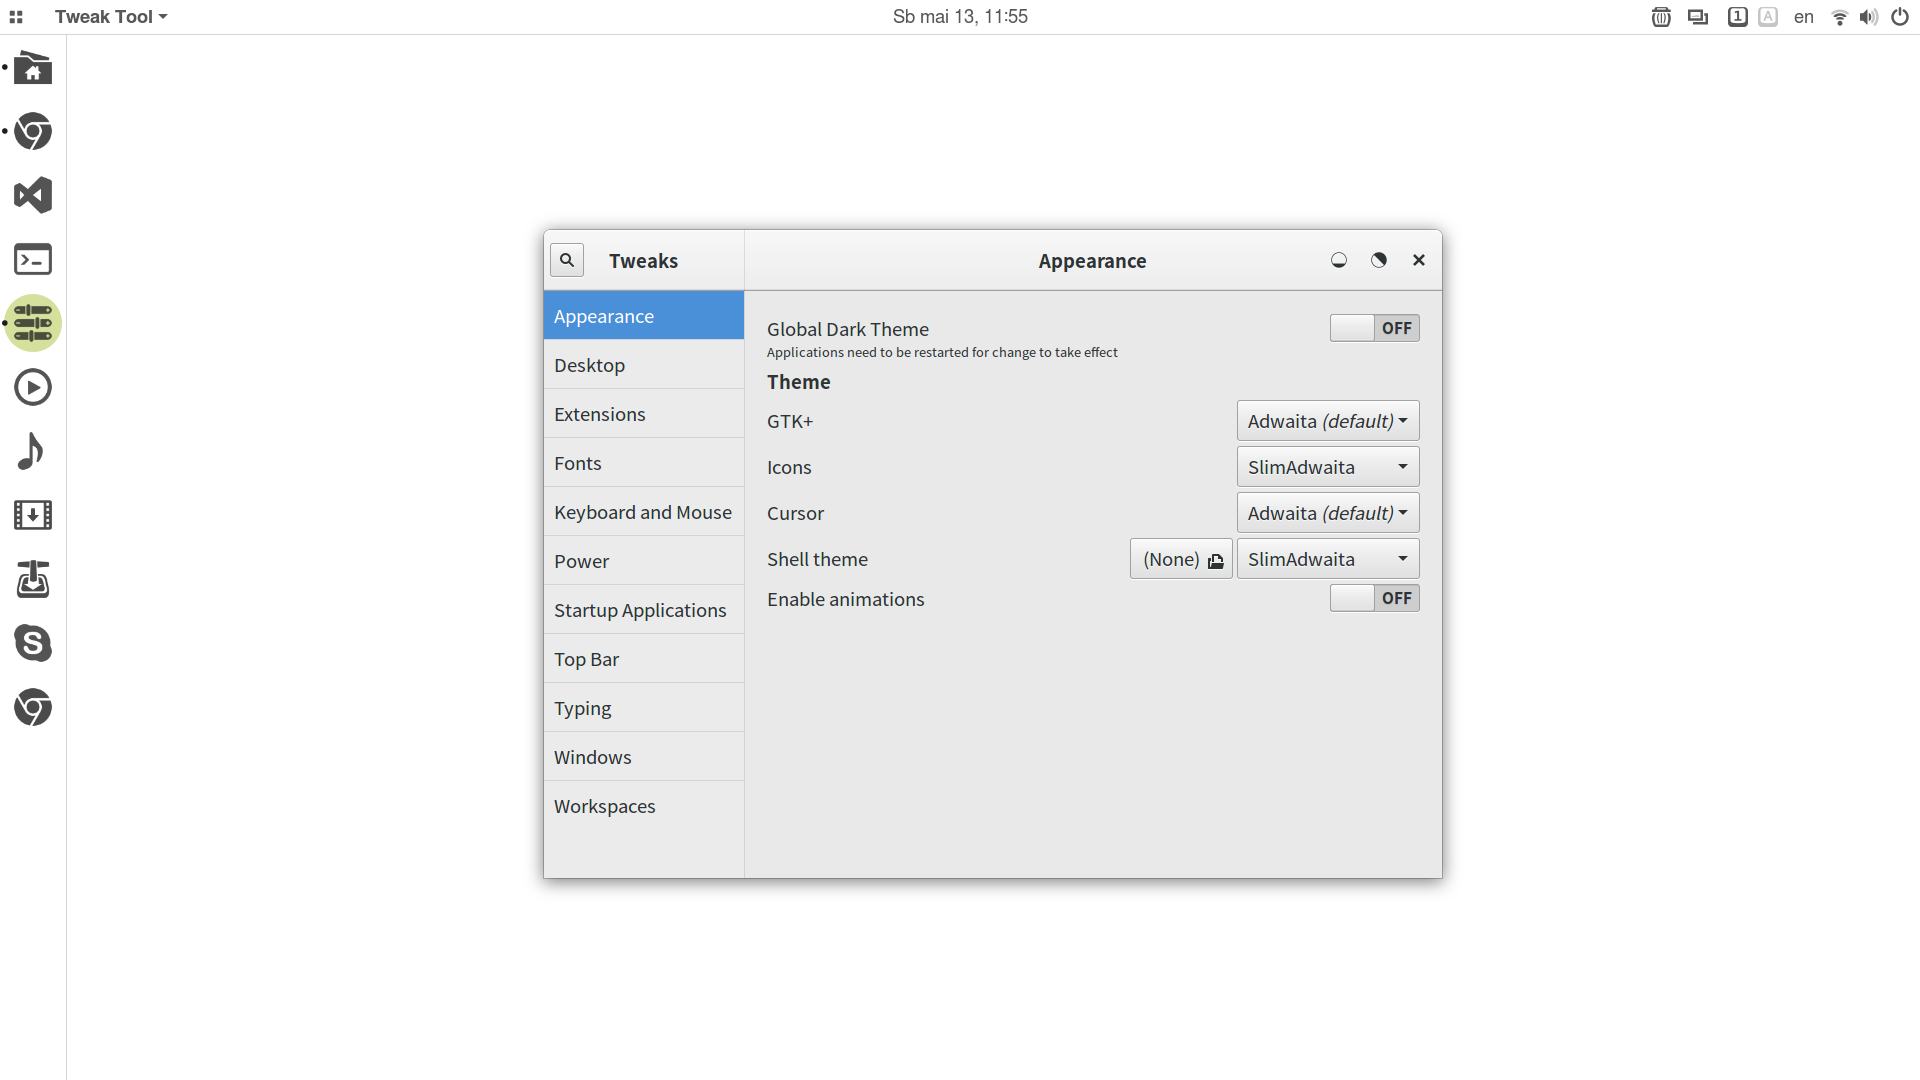
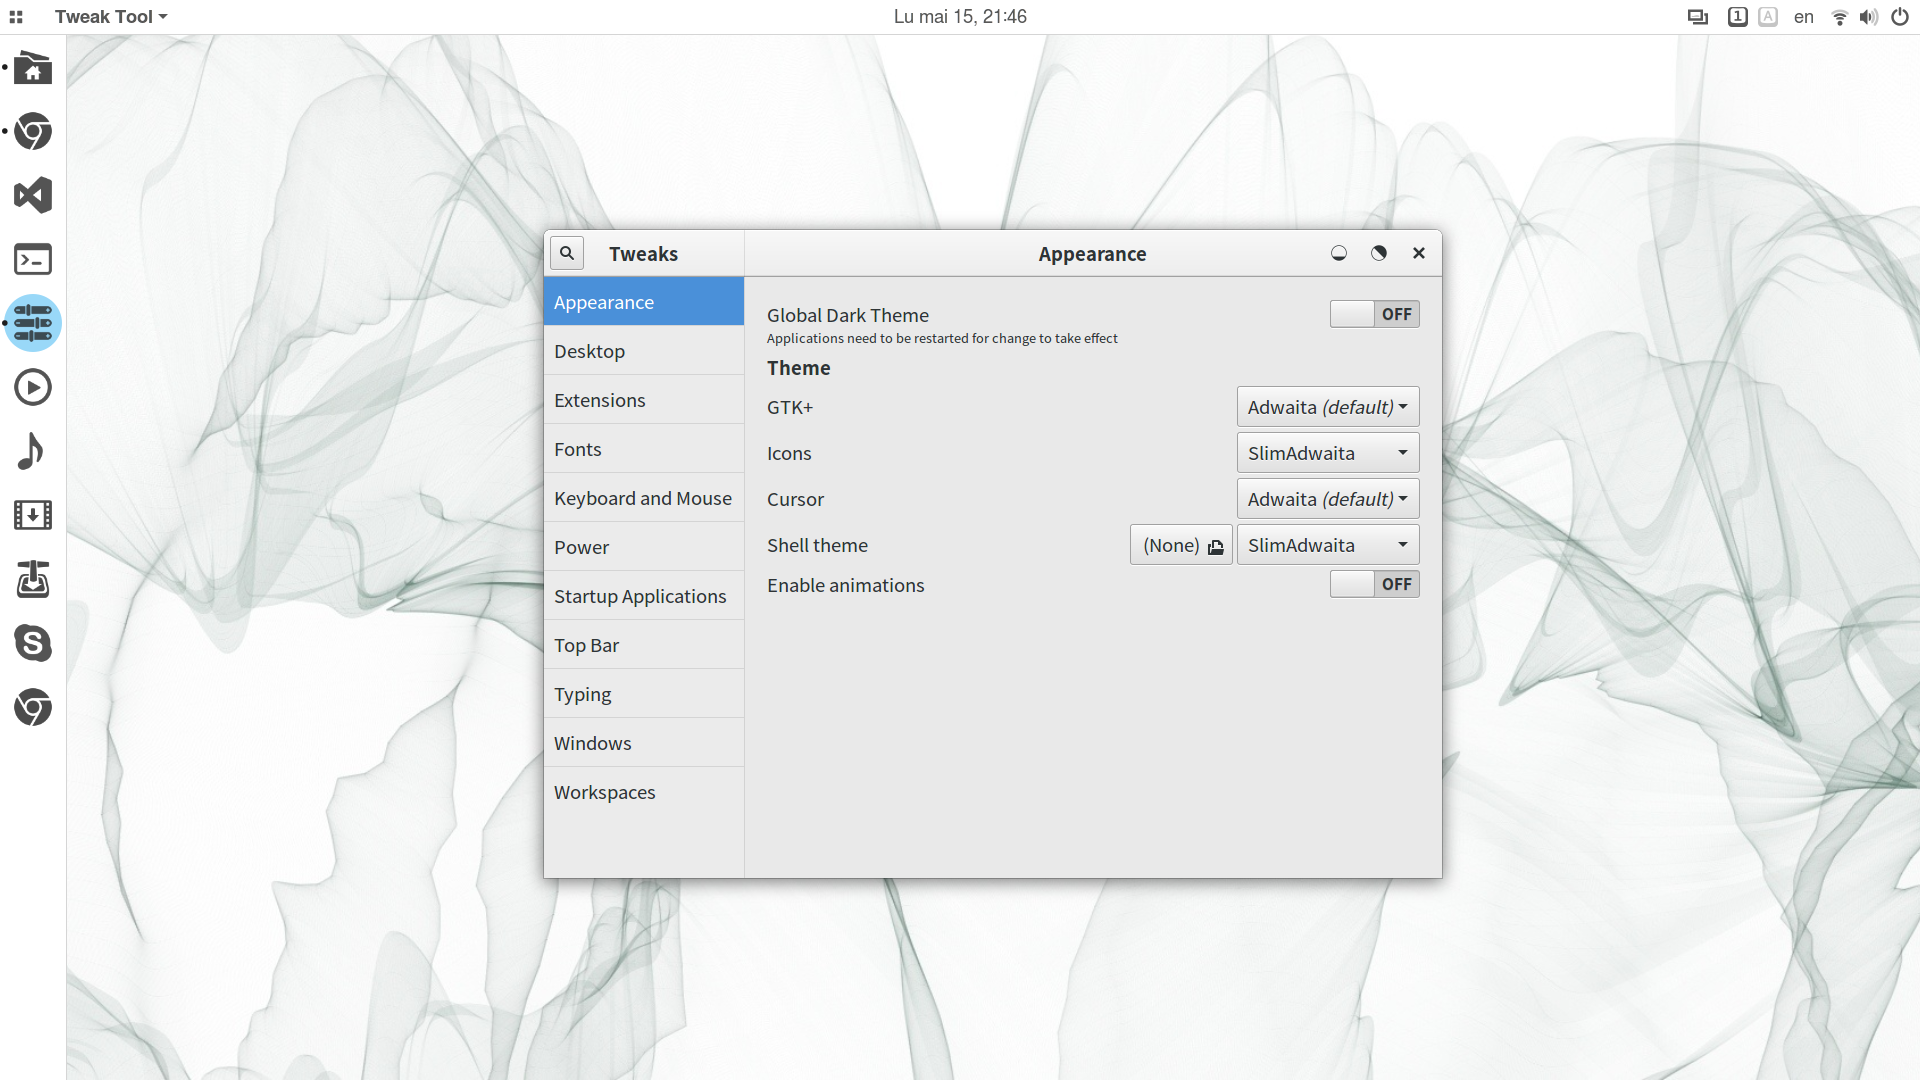
new walls

diff --git a/.local/share/gnome-shell/extensions/dash-to-dock@micxgx.gmail.com/stylesheet.css b/.local/share/gnome-shell/extensions/dash-to-dock@micxgx.gmail.com/stylesheet.css
@@ -103,7 +103,7 @@
     /*background-color: #A9DEF9;*/
     /*background-color: #57B8FF;*/
     /*background-color: #D4CDC3;*/
-    background-color: #D4E09B;
+    /*background-color: #D4E09B;*/
     /*background-color: #F5D547;*/
     /*background-color: #FFDB4A;*/
     /*background-color: #F5CB5C;*/
@@ -111,6 +111,8 @@
     /*background-color: #DBE064;*/
     /*background-color: #FCE279;*/
     /*background-color: #7CCAFB;*/
+    /*background-color: #a6caf0;*/
+    background-color: #99d8f8;
     /*background-color: pink;*/
     /*background-color:rgba(193,193,193,1);*/
     background-image:none;

diff --git a/.local/share/themes/slimAdwaita/gnome-shell/gnome-shell.css b/.local/share/themes/slimAdwaita/gnome-shell/gnome-shell.css
@@ -3047,4 +3047,5 @@ GtkScrolledWindow GtkViewport.frame {
 
 .window-frame {
   border-width: 4px;
-  margin: 10px; }
+  margin: 10px;
+}

diff --git a/README.md b/README.md
@@ -1,13 +1,11 @@
 # slimUG
 slightly modified Ubuntu Gnome
 
-sli(ghtly) m(odified) U(buntu) G(nome) is a personal project based on sli(ghtly) m(odified) Advaita theme and a modified White shell theme with the addition of original icons (which are developed based on most used apps), using dash-to-dock extension to create a clean and beautiful interface.
+sli(ghtly) m(odified) U(buntu) G(nome) is a personal project based on sli(ghtly) m(odified) Advaita theme and a modified White shell theme.
 
-Adwaita theme has been augmented with original circle-based window control icons and SpaceFM circle-based panel icons and a collection of beautiful walpapers and carefully crafted dark colored icons for most used apps.
+The addition of black icons for dash-to-dock defines a clean white, document style interface.
 
-The White shell theme has been modified with blurred panel and dock bars, which are unified in the top left corner and with the window title bar in order to provide a consistent look for the shell interface.
-
-A series of recommended gnome shell extensions have been added: Activities configurator, Dash to dock, Force quit, to name just a few.
+Adwaita theme has been augmented with original circle-based window control icons and a collection of beautiful white background walpapers.
 
 ![ScreenShot01](screenshot01.png)
 ![ScreenShot02](screenshot02.png)
